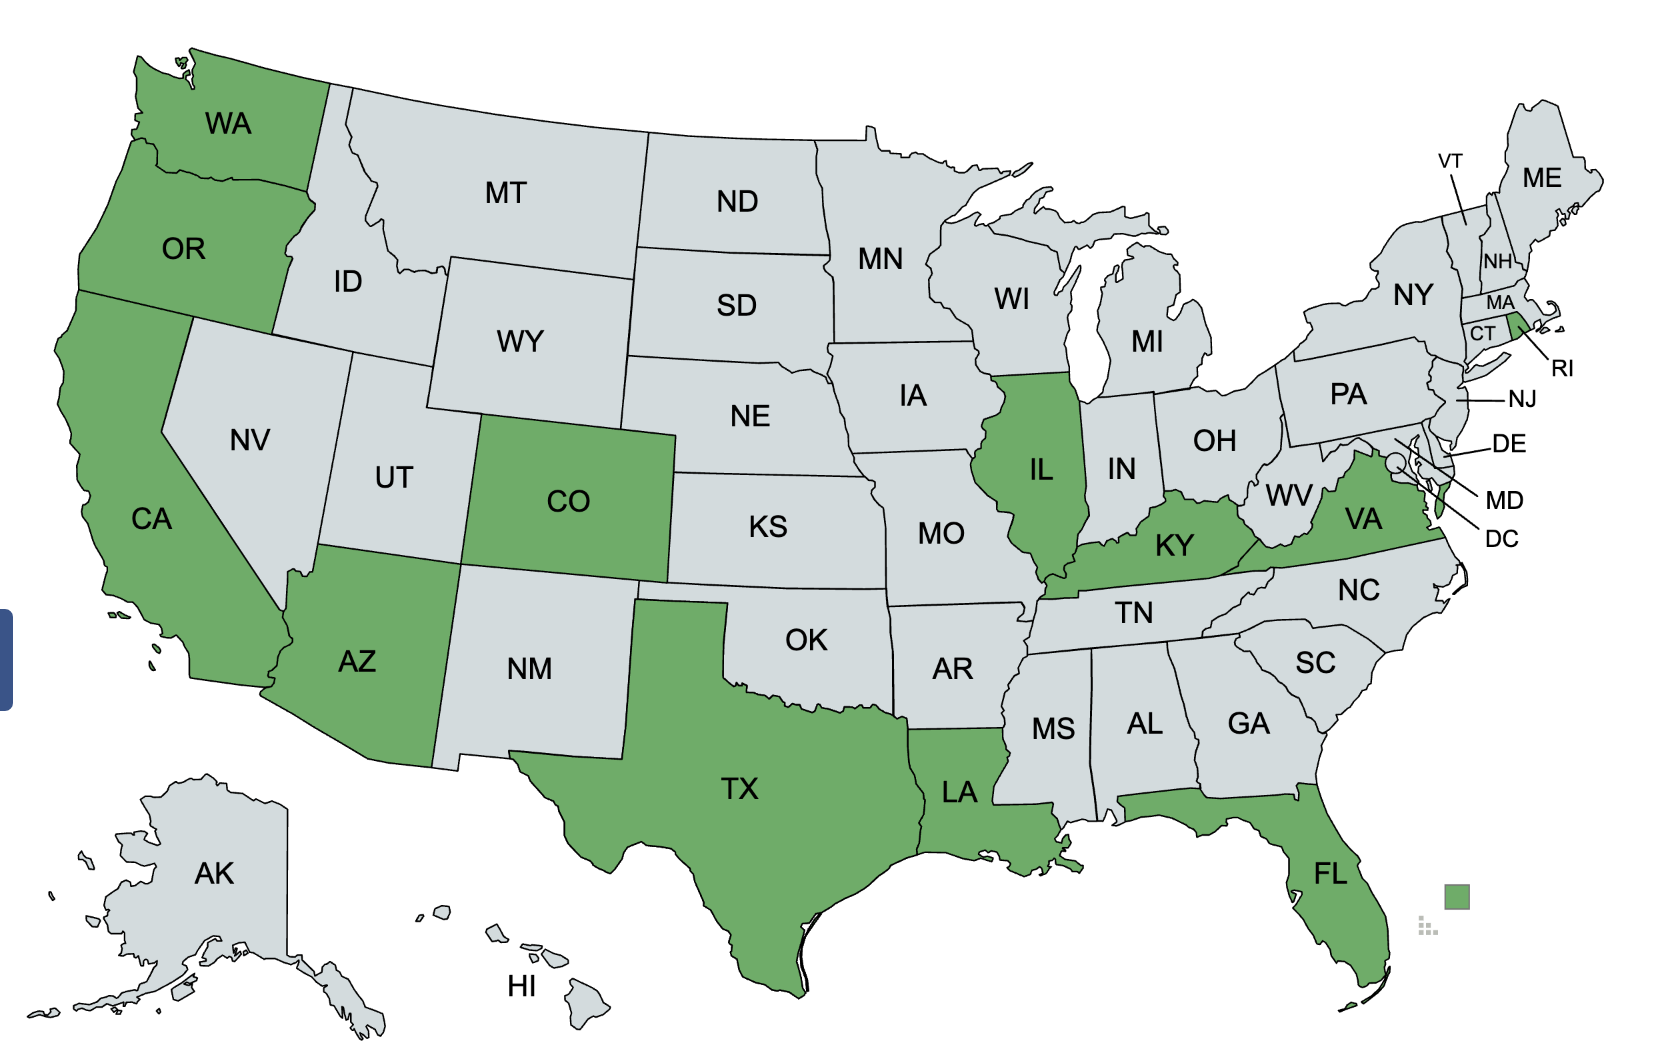
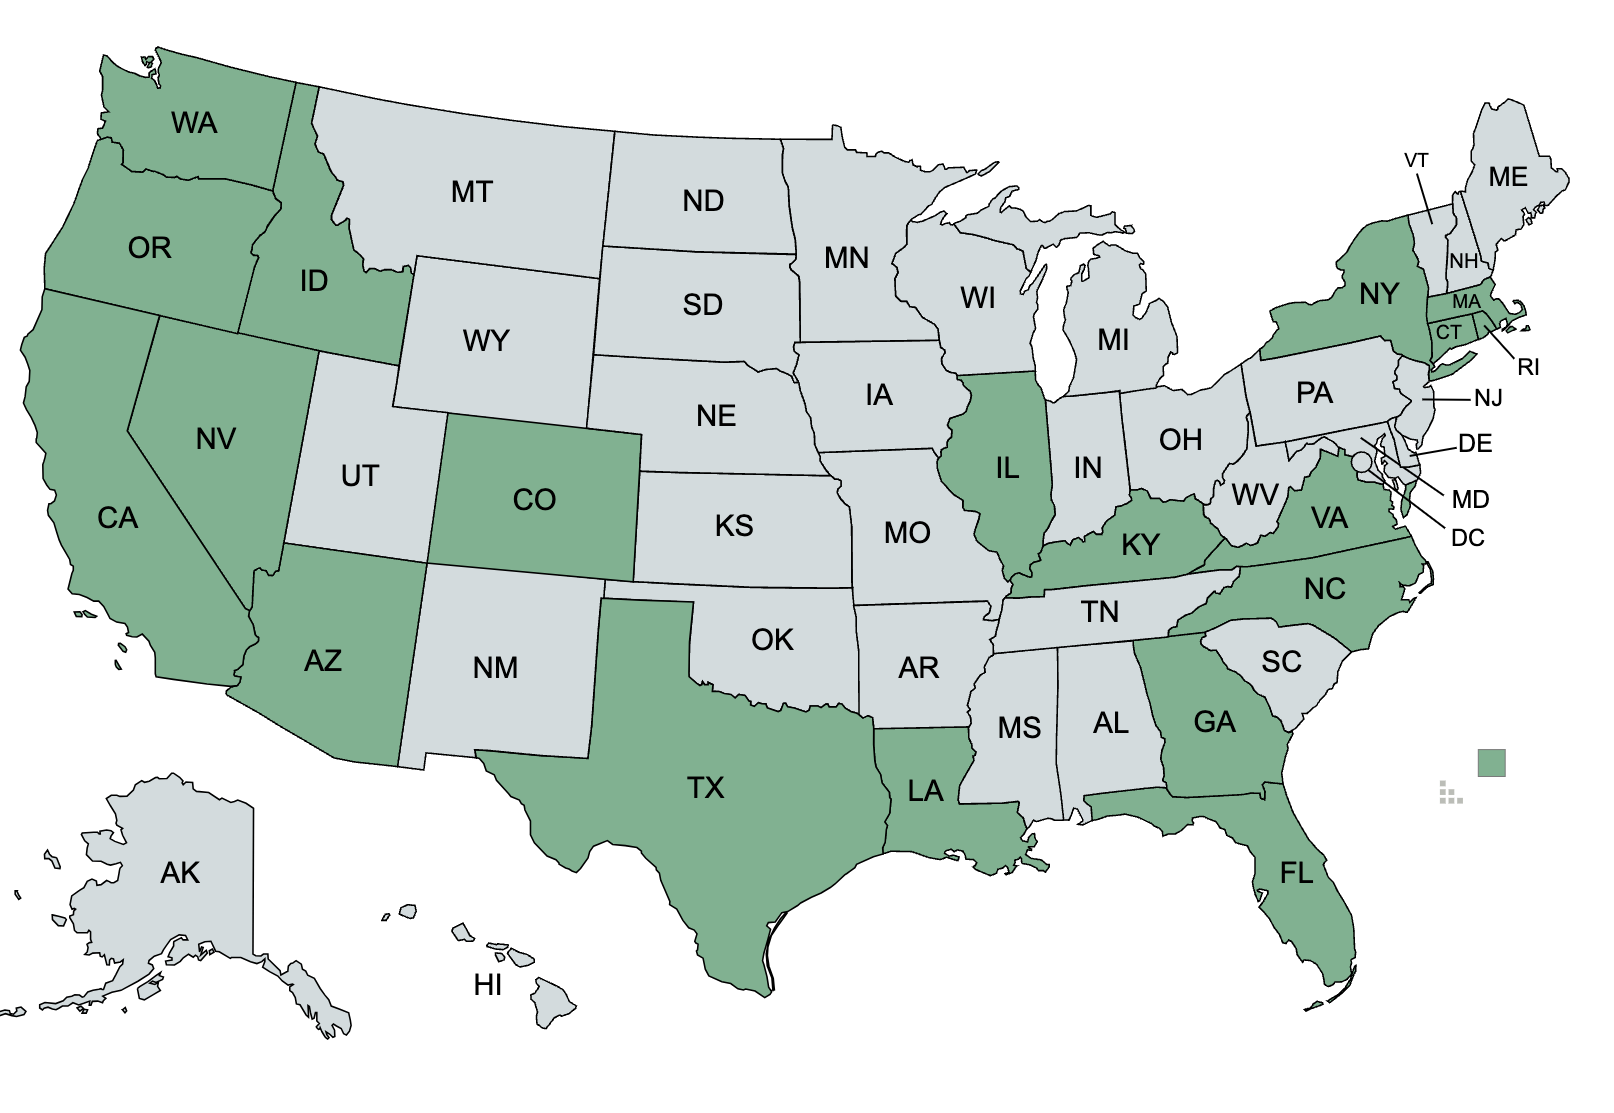
addpartnersandnum

diff --git a/app/outreach/partners/page.js b/app/outreach/partners/page.js
@@ -6,7 +6,7 @@ export default function Partners() {
     <>
       <h2 className={classes.section}>Hand's United Partners</h2>
       <header className={classes.header}>
-      <div className={classes.imageContainer}>
+        <div className={classes.imageContainer}>
           <Image
             src="/partners/trilingual.jpeg"
             alt="Trilingual Therapy logo"
@@ -16,7 +16,10 @@ export default function Partners() {
         </div>
         <div className={classes.hero}>
           <p className={classes.para}>
-            Marlene M Nero at <a href="https://trilingualtherapy.com/" target="_blank">Trilingual Therapy Center LLC</a>
+            Marlene M Nero at{" "}
+            <a href="https://trilingualtherapy.com/" target="_blank">
+              Trilingual Therapy Center LLC
+            </a>
           </p>
         </div>
         <div className={classes.imageContainer}>
@@ -29,7 +32,10 @@ export default function Partners() {
         </div>
         <div className={classes.hero}>
           <p className={classes.para}>
-            Gladys Medina at <a href="https://ripin.org/" target="_blank">RIPIN</a>
+            Gladys Medina at{" "}
+            <a href="https://ripin.org/" target="_blank">
+              RIPIN
+            </a>
           </p>
         </div>
         <div className={classes.imageContainer}>
@@ -43,7 +49,10 @@ export default function Partners() {
         <div className={classes.hero}>
           <p className={classes.para}>
             Keila Armas Velasquez at{" "}
-            <a href="https://www.ncdhhs.gov/divisions/child-and-family-well-being/whole-child-health-section/genetics-and-newborn-screening/early-hearing-detection-and-intervention-services" target="_blank">
+            <a
+              href="https://www.ncdhhs.gov/divisions/child-and-family-well-being/whole-child-health-section/genetics-and-newborn-screening/early-hearing-detection-and-intervention-services"
+              target="_blank"
+            >
               EHDI
             </a>
           </p>
@@ -58,7 +67,33 @@ export default function Partners() {
         </div>
         <div className={classes.hero}>
           <p className={classes.para}>
-            Karen Armas at <a href="https://www.facebook.com/IDLA2008" target="_blank">IDLA</a>
+            Karen Armas at{" "}
+            <a href="https://www.facebook.com/IDLA2008" target="_blank">
+              IDLA
+            </a>
+          </p>
+        </div>
+        <div className={classes.imageContainer}>
+          <Image
+            src="/partners/TCNJ.png"
+            alt="TCNJ logo"
+            width={150}
+            height={100}
+          />
+        </div>
+        <div className={classes.hero}>
+          <p className={classes.para}>
+            Heather Osowski at{" "}
+            <a href="https://njcscd.tcnj.edu/" target="_blank">
+              The College of New Jersey School of Education's Center for Sensory
+              and Complex Disabilities
+            </a>
+          </p>
+          <p>
+            The Center provides professional efforts on meeting the needs of
+            those infants, children, youth and adults with the most significant
+            challenges to their development, education, and inclusion within our
+            schools and communities.
           </p>
         </div>
       </header>

diff --git a/app/outreach/partners/page.module.css b/app/outreach/partners/page.module.css
@@ -4,7 +4,7 @@ h2.section {
     font-weight: bold;
     font-family: "Montserrat", sans-serif;
     text-transform: uppercase;
-    background: linear-gradient(90deg, #0072b2, #56b4e9);
+    background: linear-gradient(90deg, #72b200, #b4e956);
     background-clip: text;
     -webkit-background-clip: text;
     -webkit-text-fill-color: transparent;
@@ -34,7 +34,7 @@ h2.section {
     font-family: "Montserrat", sans-serif;
     letter-spacing: 0.15rem;
     text-transform: uppercase;
-    background: linear-gradient(90deg, #0072b2, #56b4e9);
+    background: linear-gradient(90deg, #72b200, #b4e956);
     background-clip: text;
     -webkit-background-clip: text;
     -webkit-text-fill-color: transparent;
@@ -47,11 +47,11 @@ h2.section {
   }
   
   .hero a:visited {
-    color: #56b4e9
+    color: #b4e956
   }
   
   .hero a {
-    color: #56b4e9
+    color: #b4e956
   }
   
   /* General image container styling */

diff --git a/app/outreach/page.js b/app/outreach/page.js
@@ -38,7 +38,7 @@ export default function Outreach() {
           <h1>Families Supported</h1>
           <p>
             Since 2022 we have supported over 100 immigrant families with Deaf
-            and hard of hearing children in 12 states.
+            and hard of hearing children in 19 states.
           </p>
         </div>
         <div className={classes.hero}>
